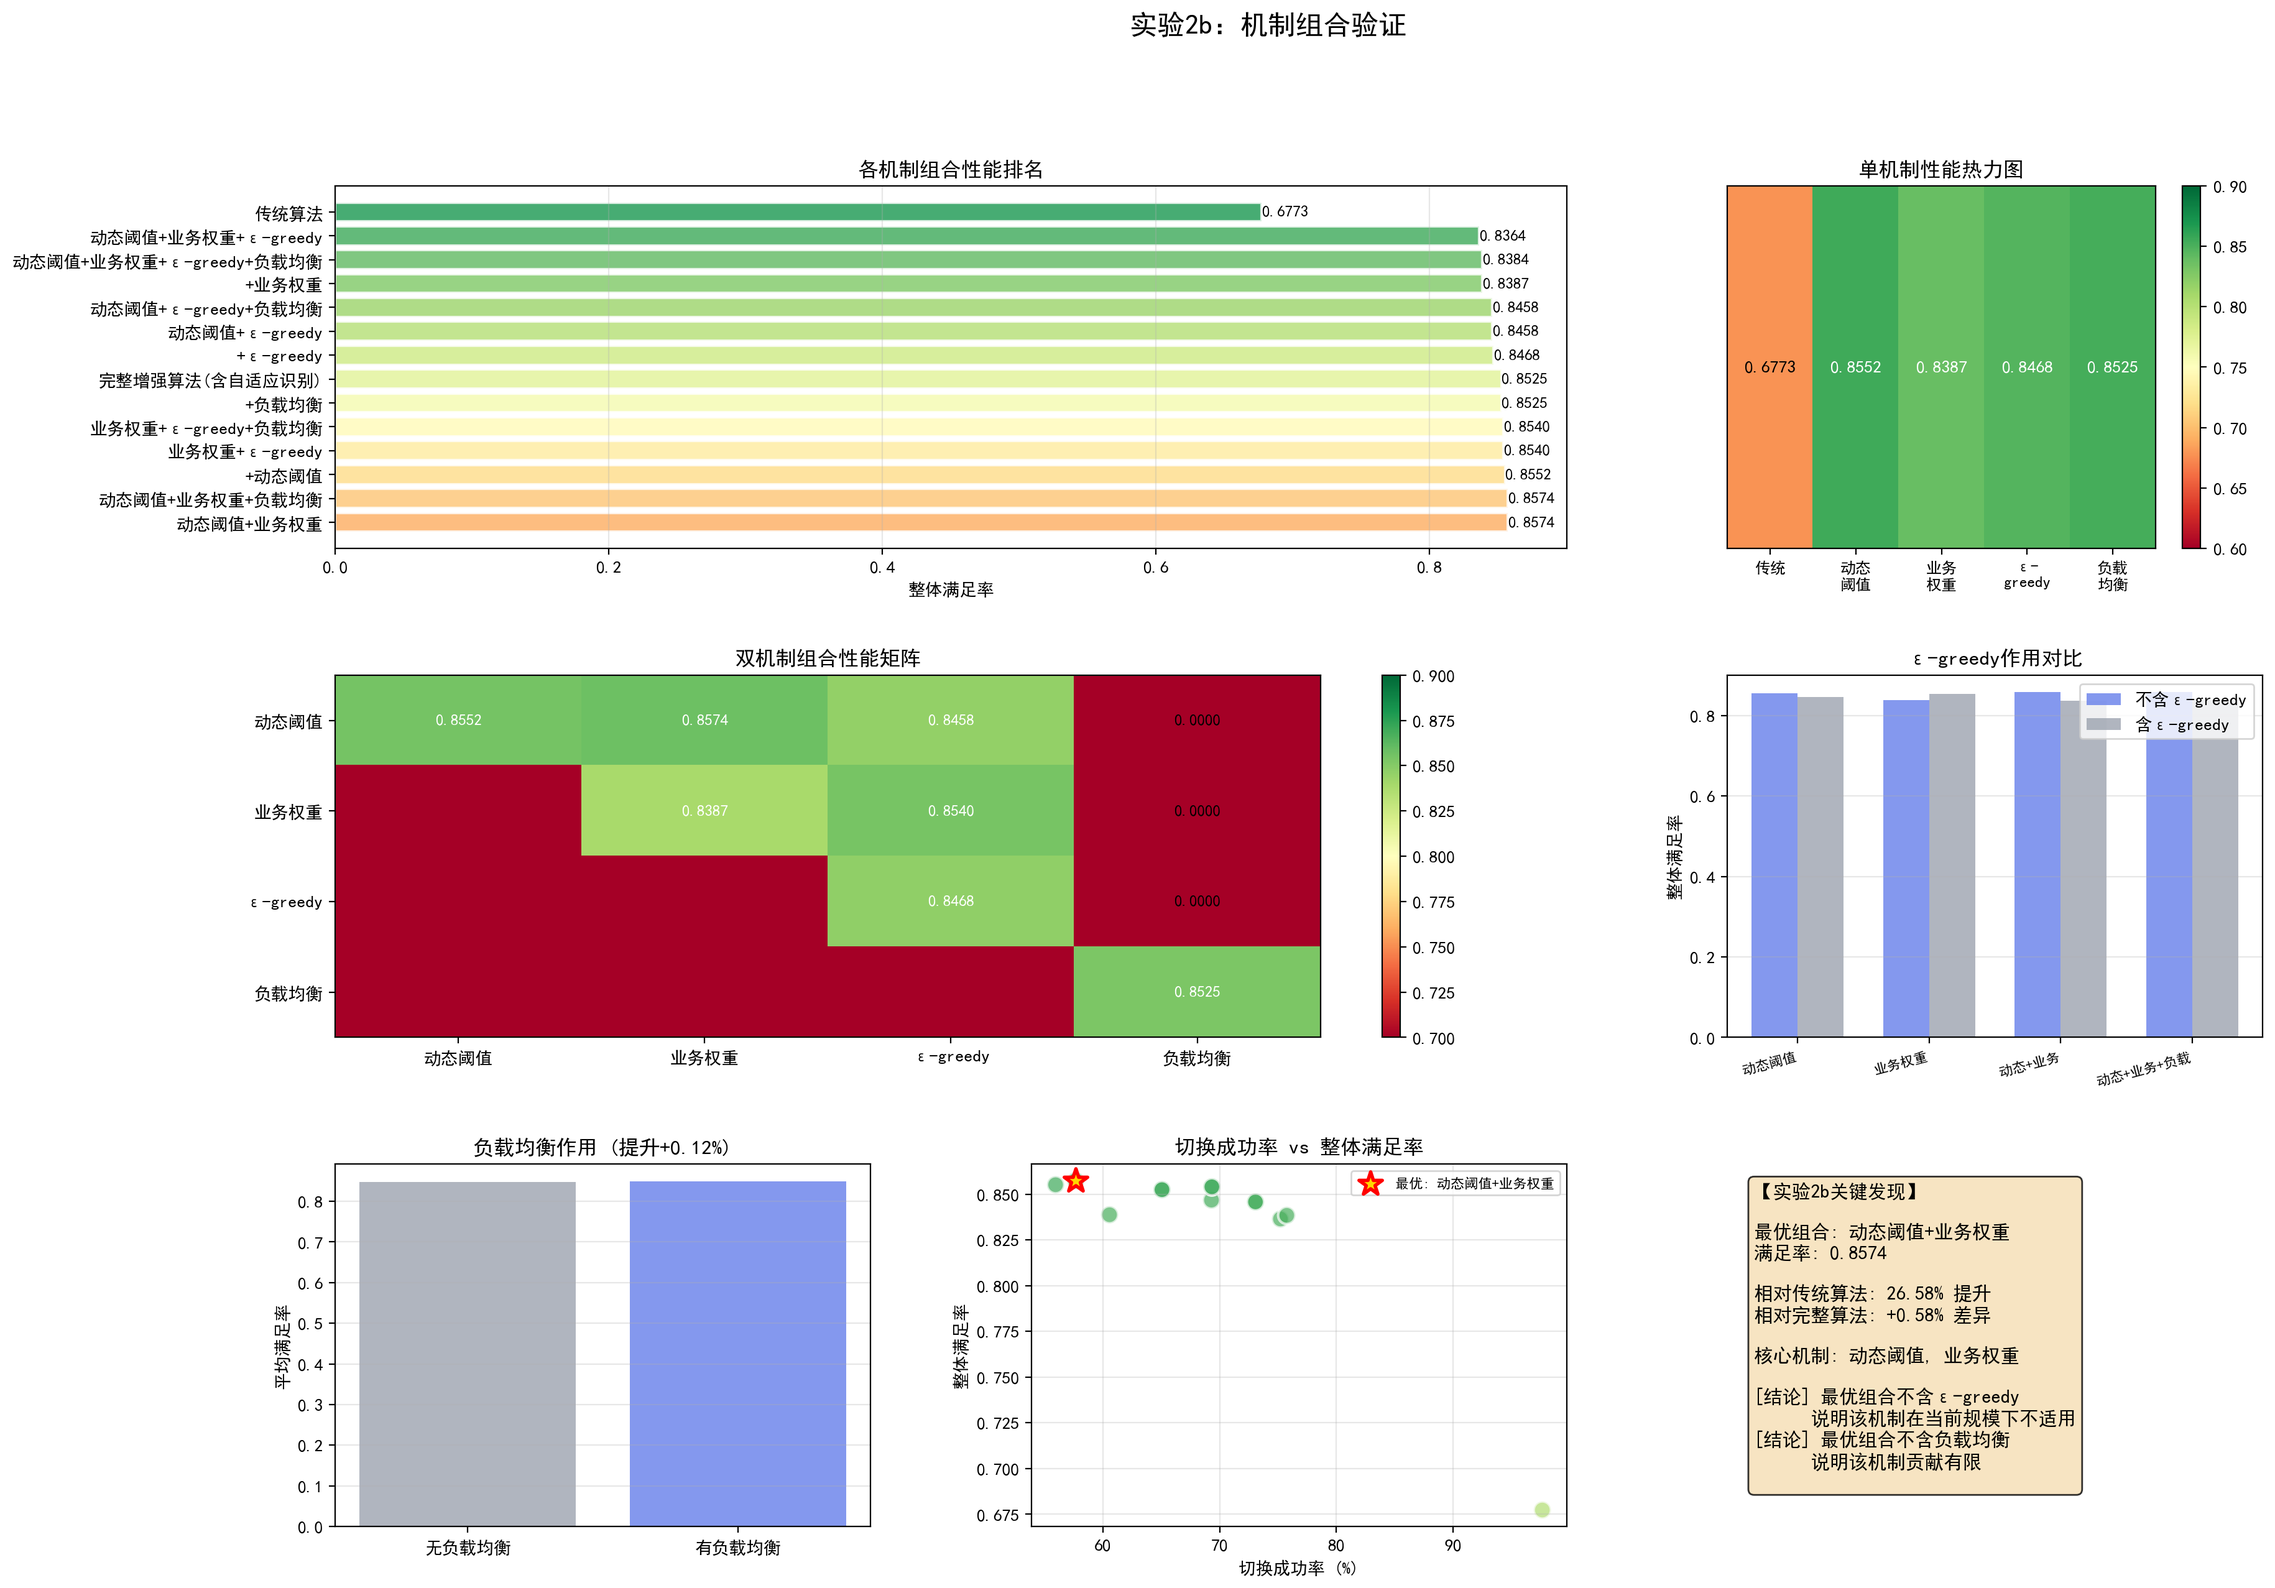
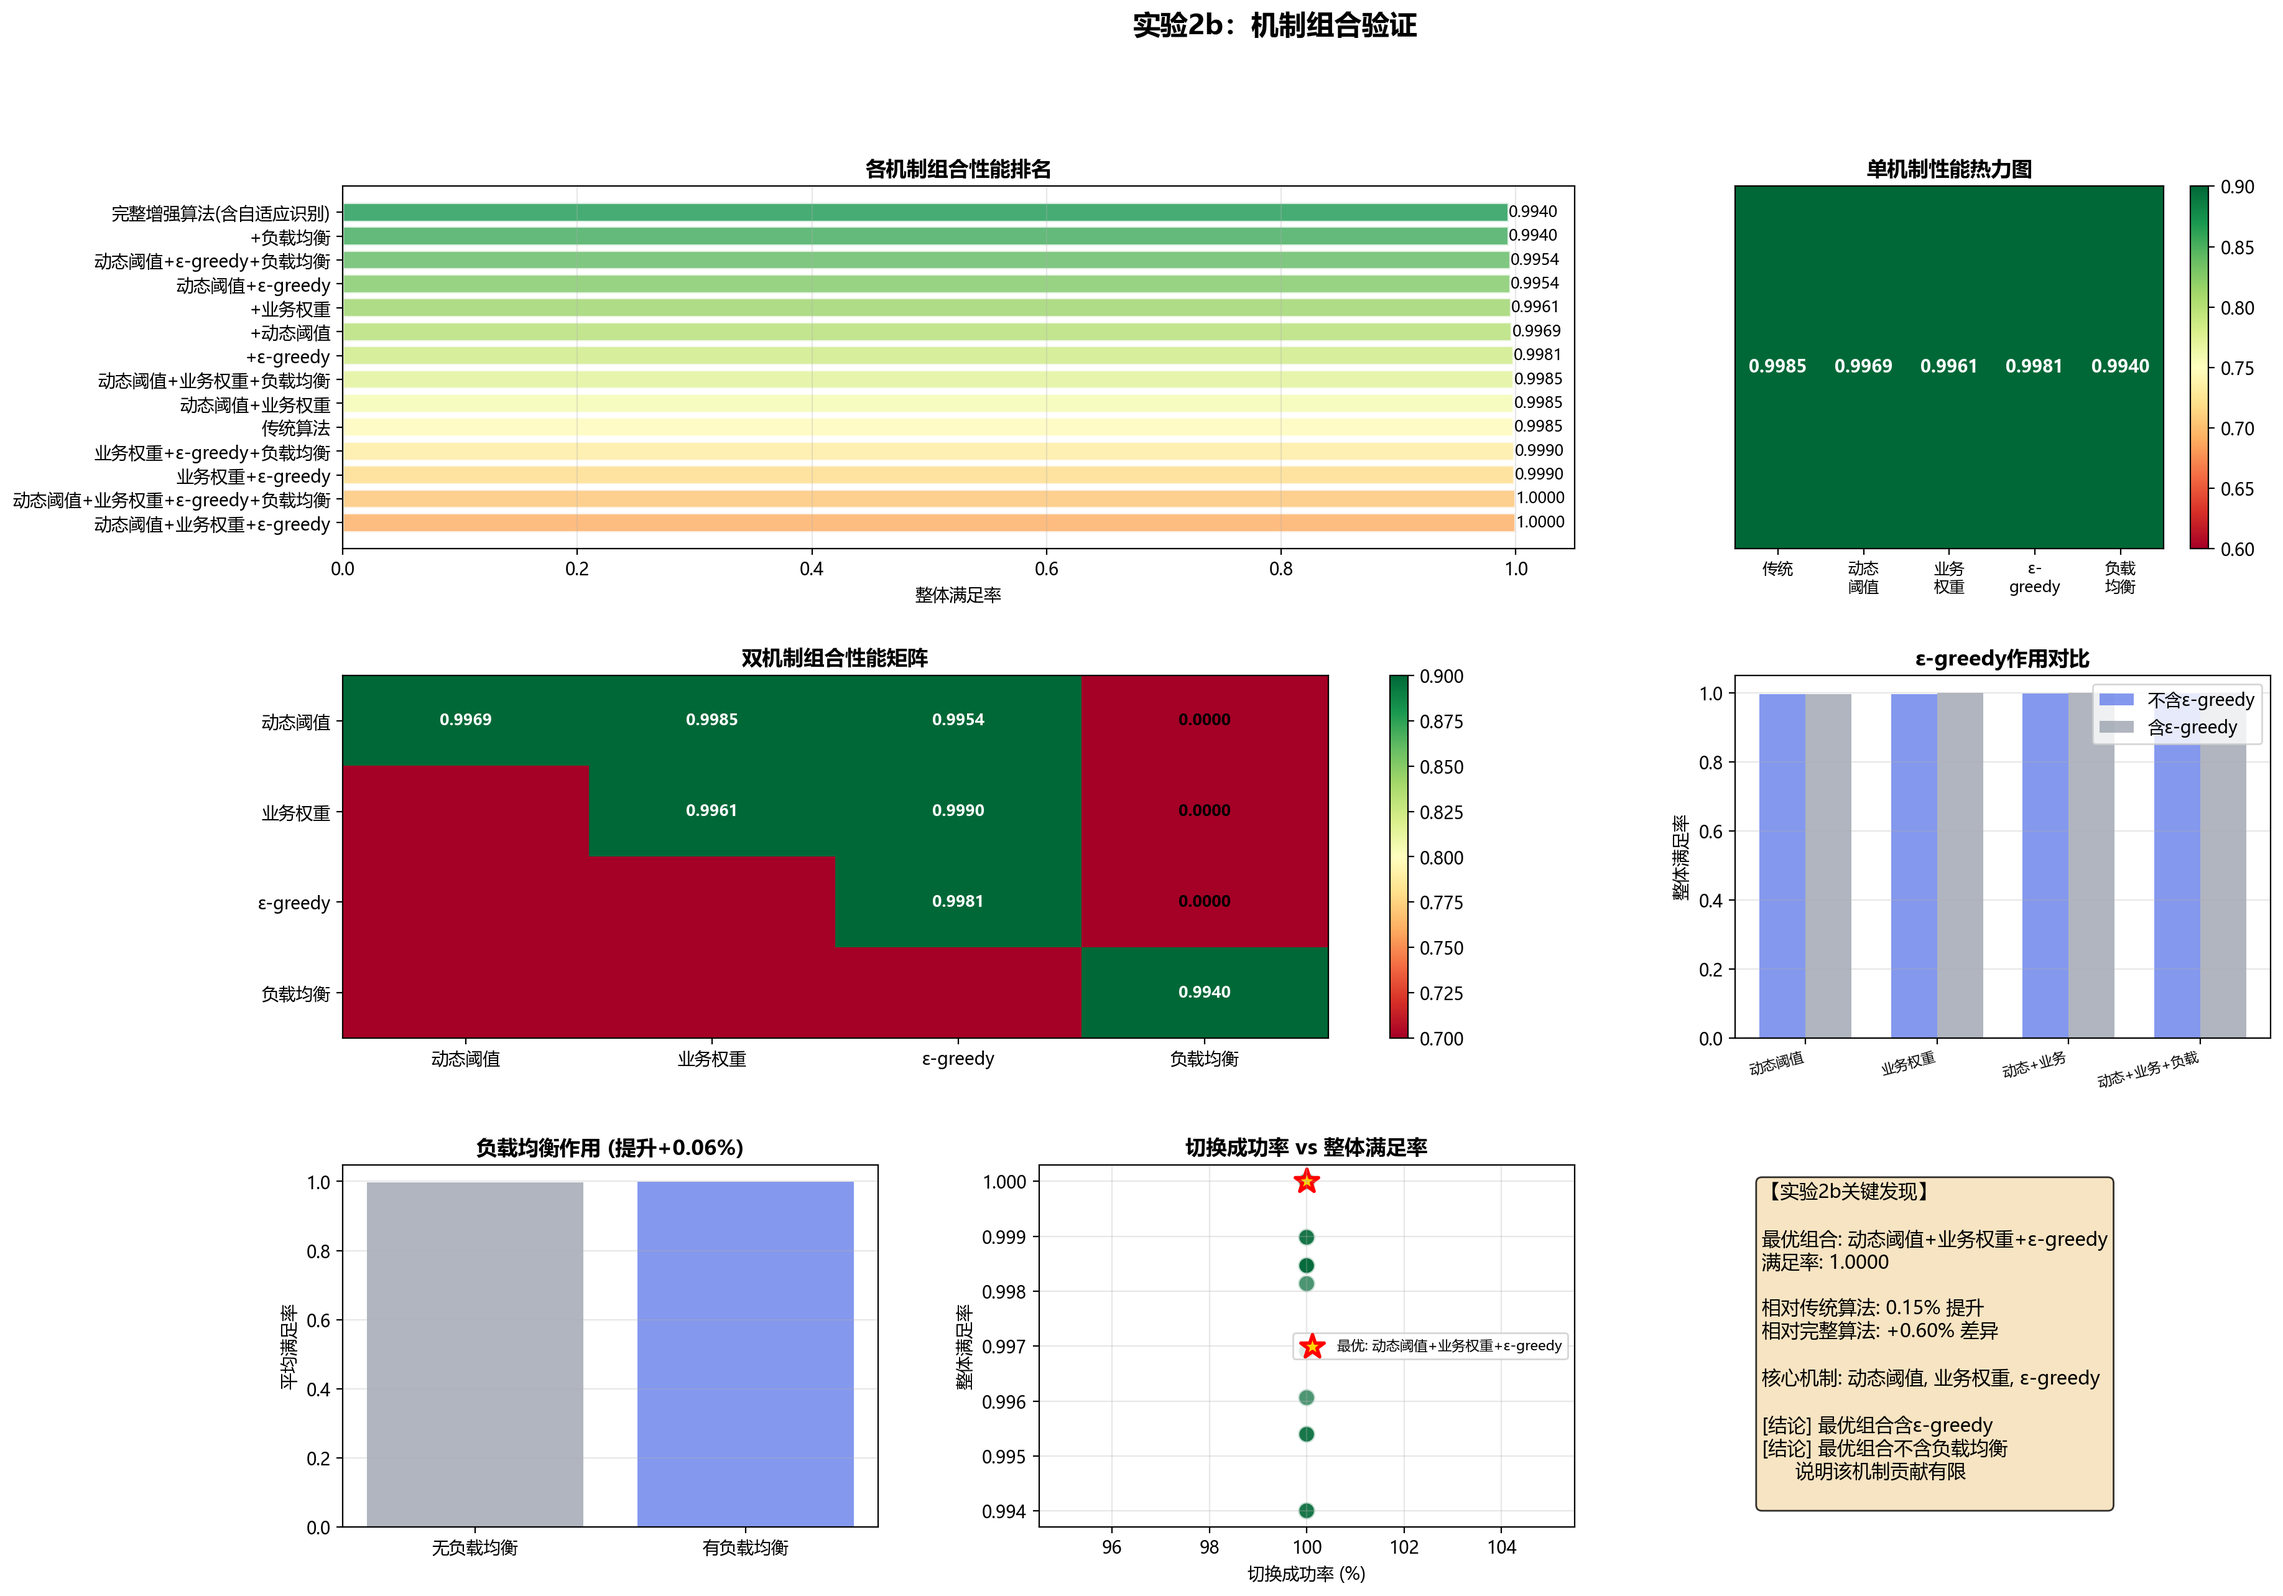
优化基站和无人机配比

diff --git a/uav_system/environment.py b/uav_system/environment.py
@@ -56,7 +56,7 @@ class NetworkEnvironmentWithRecognition:
     def _init_base_stations(self, scenario: str):
         if scenario == 'urban':
             for i in range(self.num_bs):
-                capacity = np.random.uniform(300, 500)
+                capacity = np.random.uniform(1500, 2500)  # 方案D: 平衡容量与竞争
                 bs_type = 'small' if np.random.rand() < 0.4 else 'macro'
                 self.base_stations[i] = BaseStation(
                     i, capacity=capacity,
@@ -65,7 +65,7 @@ class NetworkEnvironmentWithRecognition:
                 )
         elif scenario == 'emergency':
             for i in range(self.num_bs):
-                capacity = np.random.uniform(500, 800)
+                capacity = np.random.uniform(2000, 3000)  # 方案D: 应急场景高容量
                 self.base_stations[i] = BaseStation(
                     i, capacity=capacity,
                     position=np.random.rand(3) * 1200,
@@ -73,7 +73,7 @@ class NetworkEnvironmentWithRecognition:
                 )
         elif scenario == 'agriculture':
             for i in range(self.num_bs):
-                capacity = np.random.uniform(400, 600)
+                capacity = np.random.uniform(1200, 1800)  # 方案D: 农业场景低容量
                 self.base_stations[i] = BaseStation(
                     i, capacity=capacity,
                     position=np.random.rand(3) * 1500,
@@ -81,7 +81,7 @@ class NetworkEnvironmentWithRecognition:
                 )
         else:
             for i in range(self.num_bs):
-                capacity = np.random.uniform(400, 600)
+                capacity = np.random.uniform(1500, 2500)  # 方案D: 默认场景
                 self.base_stations[i] = BaseStation(i, capacity=capacity)
 
     def _init_uavs(self, scenario: str):

diff --git a/uav_system/experiments.py b/uav_system/experiments.py
@@ -616,7 +616,7 @@ class Experiment3:
     }
 
     @staticmethod
-    def run(recognition_model, scaler, num_steps=200, repeats=10):  # 增加到10次重复
+    def run(recognition_model, scaler, num_steps=350, repeats=6):  # 方案B: 合理规模
         print("\n" + "="*80)
         print("实验3：增强算法 vs 传统算法（全面对比）")
         print("="*80)
@@ -628,7 +628,7 @@ class Experiment3:
 
             # 增强算法
             env_enh = EnhancedNetworkEnvironment(
-                num_bs=10, num_uav=80,
+                num_bs=8, num_uav=220,  # 方案B-保守型: 8基站220无人机，利用率124.6%
                 recognition_model=recognition_model, scaler=scaler,
                 seed=GLOBAL_SEED + rep, event_probability=0.05
             )
@@ -636,7 +636,7 @@ class Experiment3:
 
             # 传统算法
             env_trad = EnhancedNetworkEnvironment(
-                num_bs=10, num_uav=80,
+                num_bs=8, num_uav=220,  # 方案B-保守型: 8基站220无人机，利用率124.6%
                 recognition_model=recognition_model, scaler=scaler,
                 seed=GLOBAL_SEED + rep, event_probability=0.05
             )
@@ -1258,7 +1258,7 @@ class Experiment2b:
 
             for combo_name in Experiment2b.COMBINATIONS.keys():
                 env = EnhancedNetworkEnvironment(
-                    num_bs=8, num_uav=50,
+                    num_bs=8, num_uav=120,  # 方案D: 增加UAV数量
                     recognition_model=recognition_model, scaler=scaler,
                     seed=GLOBAL_SEED + rep, event_probability=0.05
                 )

diff --git a/main.py b/main.py
@@ -50,7 +50,7 @@ def main(force_retrain=False, run_experiments=None):
         elif exp_id_str == '2b':
             results['exp2b'] = Experiment2b.run(recognition_model, scaler, num_steps=150, repeats=8)  # 实验2b：机制组合验证
         elif exp_id_str == '3':
-            results['exp3'] = Experiment3.run(recognition_model, scaler, num_steps=200, repeats=10)  # 实验3：增强算法 vs 传统算法
+            results['exp3'] = Experiment3.run(recognition_model, scaler)  # 实验3：增强算法 vs 传统算法（使用方案C默认参数）
         elif exp_id_str == '4':
             results['exp4'] = Experiment4.run(recognition_model, scaler, num_steps=150, repeats=10)  # 实验4：多场景对比
         else:
@@ -71,6 +71,6 @@ if __name__ == "__main__":
     set_global_seed(GLOBAL_SEED)
     # 运行实验2b（机制组合验证）
     # 可以传入数字或字符串: [1, 2, '2b', 3, 4]
-    main(force_retrain=False, run_experiments=['3'])
+    # main(force_retrain=False, run_experiments=[3])
     # 运行所有实验
-    # main(force_retrain=False, run_experiments=[1, 2, 3, 4])
+    main(force_retrain=False, run_experiments=[ 1,2,'2b', 4])

diff --git a/uav_system/algorithms.py b/uav_system/algorithms.py
@@ -376,12 +376,13 @@ class EnhancedHandoverAlgorithm:
             })
 
             # 过滤条件1：当前基站负载较低时不切换（避免不必要的切换）
-            if current_bs is not None and current_bs.load_ratio < 0.5:
-                # 只有当预测成功率非常高（≥0.65）时才允许切换
-                if best_success_prob < 0.65:
+            # 放松阈值：从0.5降到0.3，成功率阈值从0.65降到0.55
+            if current_bs is not None and current_bs.load_ratio < 0.3:
+                # 只有当预测成功率非常高（≥0.55）时才允许切换
+                if best_success_prob < 0.55:
                     # 记录过滤原因
                     self.decision_log[-1]['filter_reason'] = 'low_load'
-                    self.decision_log[-1]['load_threshold'] = 0.5
+                    self.decision_log[-1]['load_threshold'] = 0.3
                     t_end = time()
                     self.decision_time_history.append((t_end - t_start) * 1000)
                     self.missed_opportunity += 1
